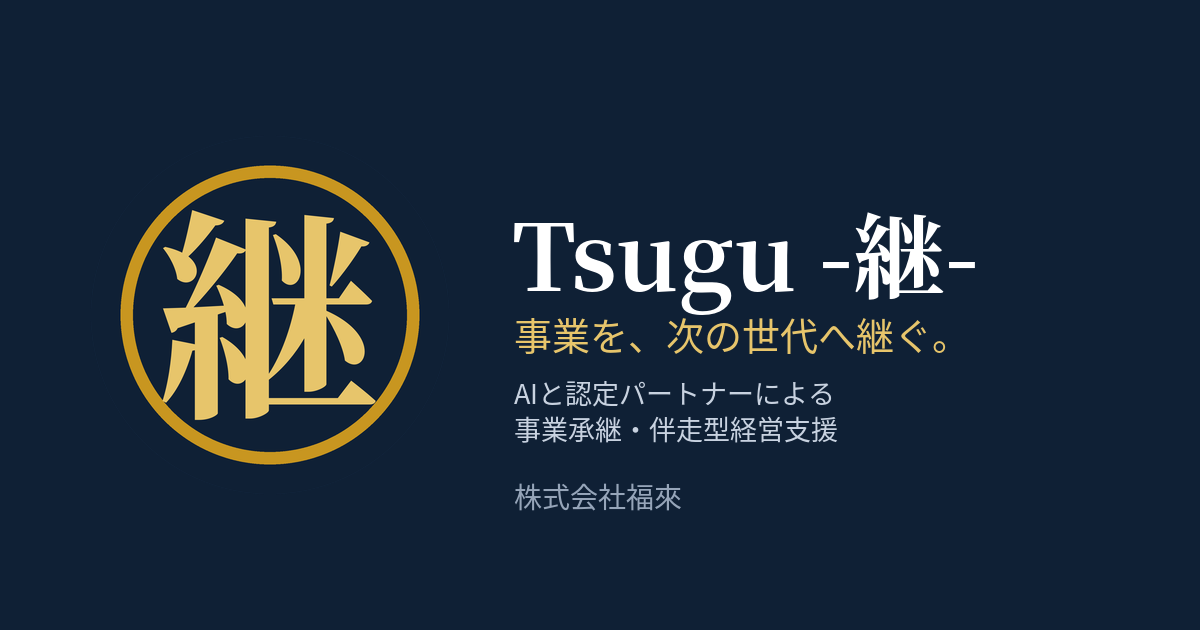
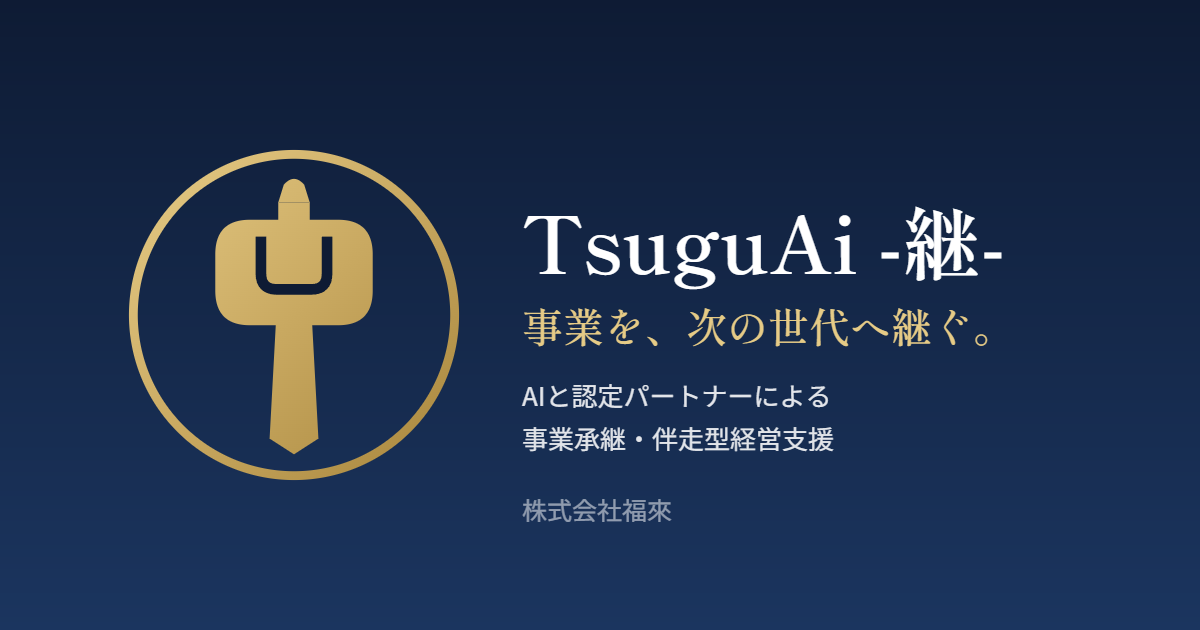
LINEなどで出るOGP画像を新しいアイコンに合わせて刷新
「継」の丸紋と旧表記「Tsugu -継-」のままだったため、
アイコンと同じ骨格に作り直した。
  ・金の輪の中に打ち出の小槌（福來HPのロゴと同じモチーフ）
  ・ブランド表記を TsuguAi -継- に統一
  ・紺のたてグラデーションはアイコンと共通

容量対策：ブラウザのグラデーションはディザを混ぜて PNG が圧縮できず
628KB になったため、背景を1行ずつ単色で描くようにして132KBに収めた。

OGPのURLに ?v=4 を付与。SNS側が持っている旧画像のキャッシュを更新させる。

diff --git a/partner.html b/partner.html
@@ -19,12 +19,12 @@
 <meta property="og:title" content="TsuguAi -継- | 認定パートナー募集 | この国の営業を、私たちが変える。">
 <meta property="og:description" content="売り込みで成り立つ構造を変えるために、各地に立つ仲間を探しています。日本初の認定パートナー第一期募集。">
 <meta property="og:url" content="https://www.fuku-tsugu.jp/partner">
-<meta property="og:image" content="https://www.fuku-tsugu.jp/og-image.png">
+<meta property="og:image" content="https://www.fuku-tsugu.jp/og-image.png?v=4">
 <meta property="og:locale" content="ja_JP">
 <meta name="twitter:card" content="summary_large_image">
 <meta name="twitter:title" content="TsuguAi -継- | 認定パートナー募集 | この国の営業を、私たちが変える。">
 <meta name="twitter:description" content="売り込みで成り立つ構造を変える。各地に立つ第一期の仲間を探しています。">
-<meta name="twitter:image" content="https://www.fuku-tsugu.jp/og-image.png">
+<meta name="twitter:image" content="https://www.fuku-tsugu.jp/og-image.png?v=4">
 
 <link rel="preconnect" href="https://fonts.googleapis.com">
 <link rel="preconnect" href="https://fonts.gstatic.com" crossorigin>

diff --git a/index.html b/index.html
@@ -21,14 +21,14 @@
 <meta property="og:title" content="TsuguAi -継- | その物語を、まだ、終わらせない。">
 <meta property="og:description" content="黒字なのに継ぐ人がいない。その悩みに、AIと認定パートナーが月額5万円で伴走します。運営：広島・株式会社福來。">
 <meta property="og:url" content="https://www.fuku-tsugu.jp/">
-<meta property="og:image" content="https://www.fuku-tsugu.jp/og-image.png">
+<meta property="og:image" content="https://www.fuku-tsugu.jp/og-image.png?v=4">
 <meta property="og:locale" content="ja_JP">
 
 <!-- Twitter Card -->
 <meta name="twitter:card" content="summary_large_image">
 <meta name="twitter:title" content="TsuguAi -継- | その物語を、まだ、終わらせない。">
 <meta name="twitter:description" content="黒字なのに継ぐ人がいない。その悩みに、AIと認定パートナーが伴走します。広島・株式会社福來が運営。">
-<meta name="twitter:image" content="https://www.fuku-tsugu.jp/og-image.png">
+<meta name="twitter:image" content="https://www.fuku-tsugu.jp/og-image.png?v=4">
 
 <!-- 構造化データ（運営会社・プロダクト情報） -->
 <script type="application/ld+json">
